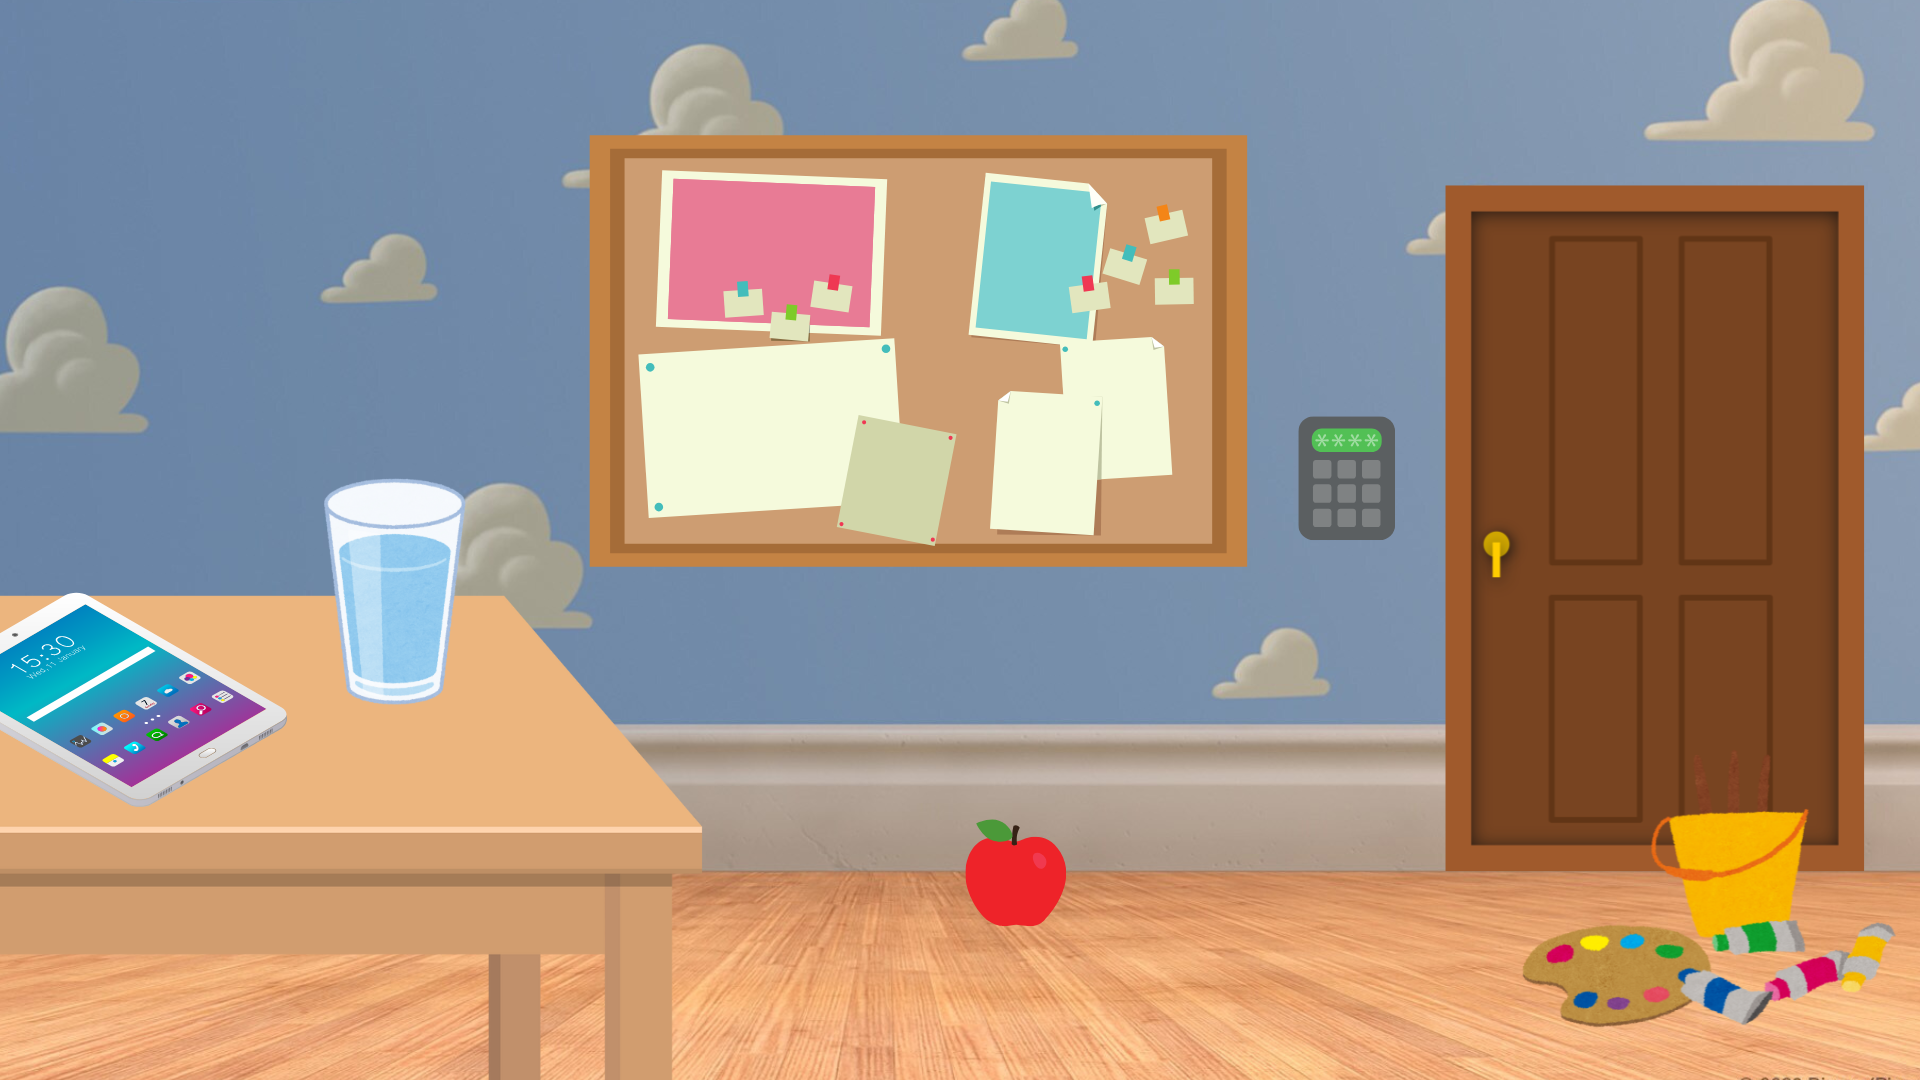
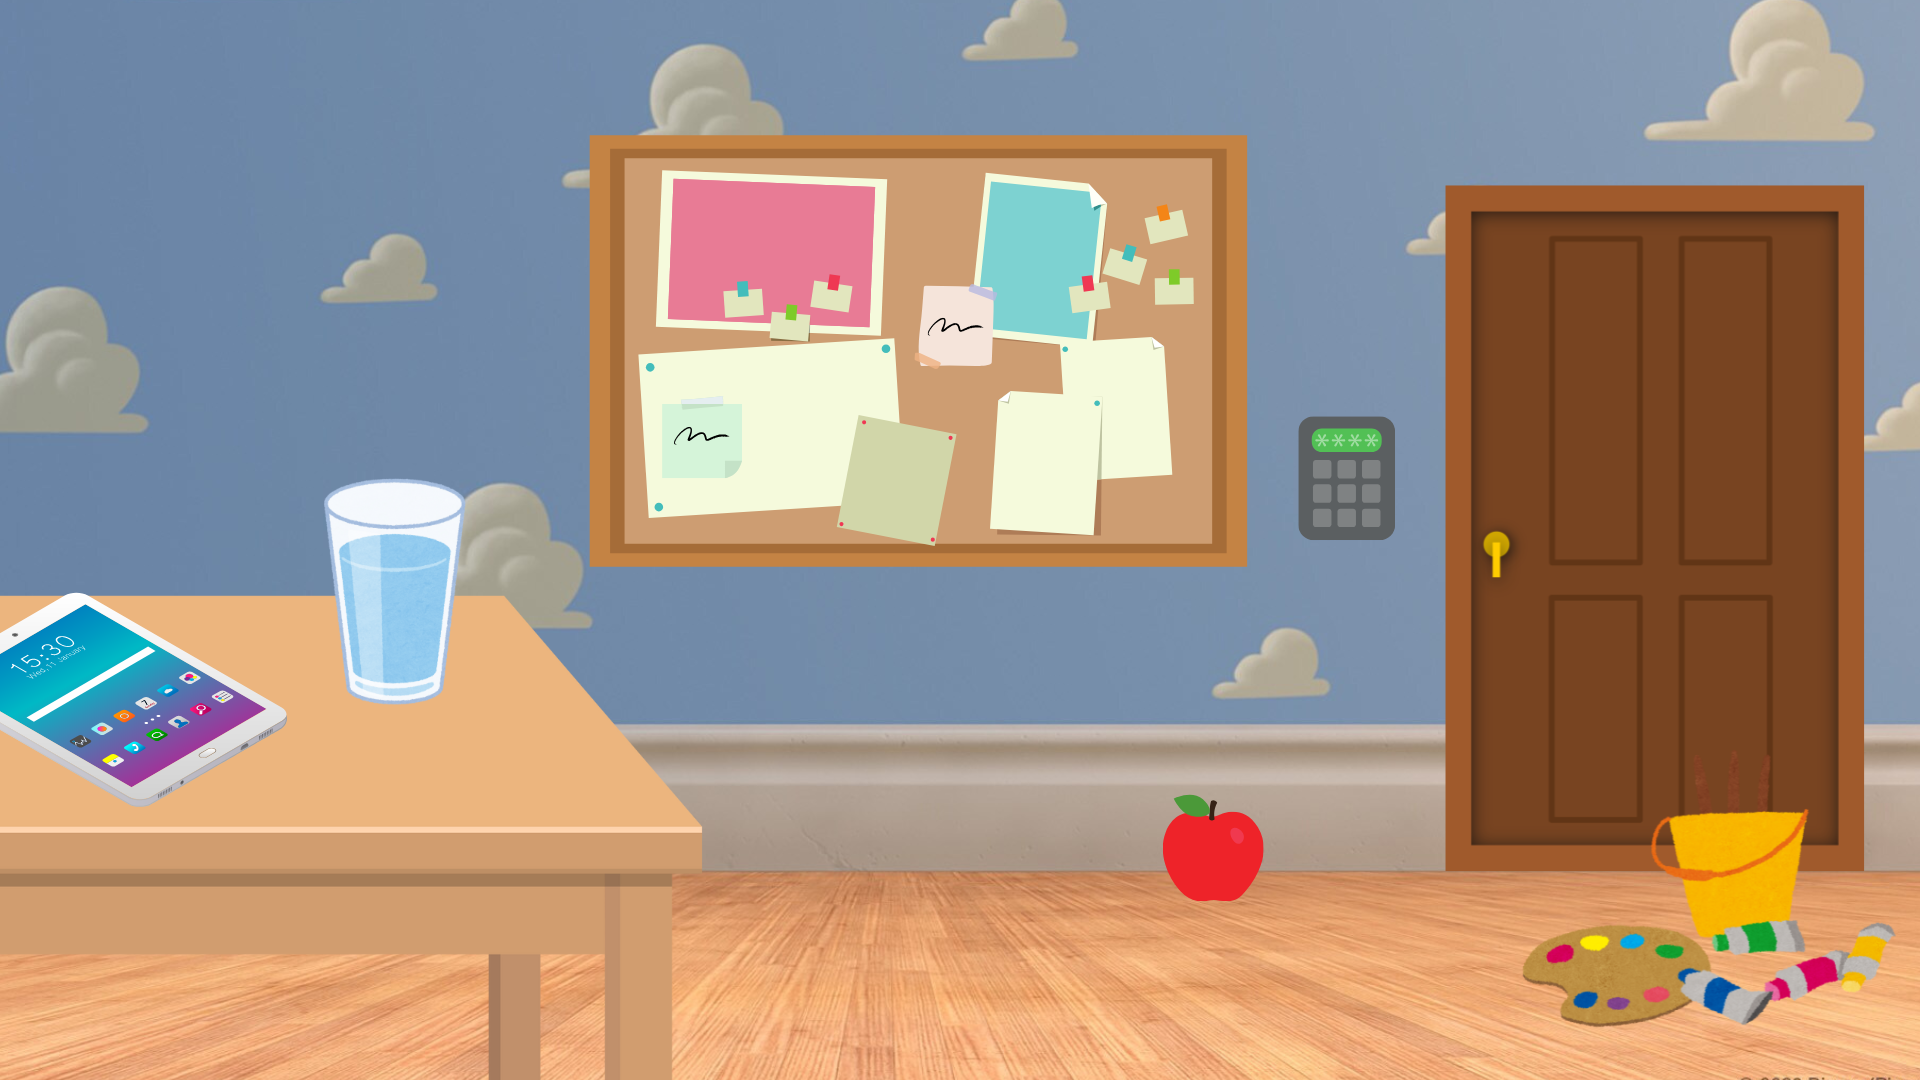
path games

diff --git a/src/app/item/[id]/page.tsx b/src/app/item/[id]/page.tsx
@@ -1,0 +1,114 @@
+'use client'
+import { InteractiveItem, interactiveMap } from '@/data/InteractiveItems';
+import Image from 'next/image';
+import { useRouter } from 'next/navigation';
+import { useCallback, useState, useRef } from 'react';
+
+export default function ItemPage({ params }: { params: { id: string } }) {
+  const router = useRouter();
+  
+  // ค้นหา currentItem จากทุกฉากใน interactiveMap
+  let currentItem: InteractiveItem | undefined;
+  for (const scene in interactiveMap) {
+    const found = interactiveMap[scene].find(item => item.id === params.id);
+    if (found) {
+      currentItem = found;
+      break;
+    }
+  }
+
+  const [zoomStyle, setZoomStyle] = useState({});
+  const [isZooming, setIsZooming] = useState(false);
+  const containerRef = useRef<HTMLDivElement>(null);
+
+  const handleBackgroundClick = useCallback((e: React.MouseEvent<HTMLDivElement>) => {
+    if (!containerRef.current || !interactiveMap[params.id]) return;
+
+    const rect = containerRef.current.getBoundingClientRect();
+    const clickX = ((e.clientX - rect.left) / rect.width) * 100;
+    const clickY = ((e.clientY - rect.top) / rect.height) * 100;
+
+    // ใช้ interactiveMap[params.id] เฉพาะฉากปัจจุบัน
+    const clickedItem = interactiveMap[params.id].find(item => {
+      const { x, y, width, height } = item.clickArea;
+      return (
+        clickX >= x &&
+        clickX <= x + width &&
+        clickY >= y &&
+        clickY <= y + height
+      );
+    });
+
+    if (clickedItem && clickedItem.id !== params.id) {
+      const { x, y, width, height } = clickedItem.clickArea;
+      const centerX = x + width / 2;
+      const centerY = y + height / 2;
+
+      // ซูมก่อน
+      setZoomStyle({
+        transformOrigin: `${centerX}% ${centerY}%`,
+        transform: 'scale(1.5)',
+      });
+      setIsZooming(true);
+
+      // เปลี่ยนหน้าไปไอเทมใหม่หลังซูม
+      setTimeout(() => {
+        router.push(`/item/${clickedItem.id}`);
+      }, 500);
+    }
+  }, [router, params.id]);
+
+  if (!currentItem) {
+    return <div className="text-white text-center mt-10">Item not found</div>;
+  }
+
+  const handleBack = () => {
+    router.back();
+  };
+
+  return (
+    <div className="w-screen h-screen bg-gray-900 overflow-hidden cursor-pointer">
+      <div className="relative w-full h-full">
+        <div
+          ref={containerRef}
+          className="relative w-full h-full select-none transition-transform duration-500"
+          style={zoomStyle}
+          onClick={handleBackgroundClick}
+        >
+          <Image
+            src={currentItem.zoomImage}
+            alt={currentItem.name}
+            fill
+            className="object-cover"
+            sizes="100vw"
+            priority
+          />
+
+          {process.env.NODE_ENV === 'development' && interactiveMap[params.id] && (
+            interactiveMap[params.id].map(item => (
+              <div
+                key={item.id}
+                className="absolute border-2 border-red-500 opacity-50 pointer-events-none"
+                style={{
+                  left: `${item.clickArea.x}%`,
+                  top: `${item.clickArea.y}%`,
+                  width: `${item.clickArea.width}%`,
+                  height: `${item.clickArea.height}%`,
+                }}
+              />
+            ))
+          )}
+        </div>
+
+        <button
+          onClick={handleBack}
+          className="absolute top-3 right-3 bg-red-500 text-white rounded-full w-10 h-10 flex items-center justify-center hover:bg-red-600 transition-colors text-xl font-bold z-10"
+          aria-label="Back"
+        >
+          ×
+        </button>
+
+      </div>
+    </div>
+  );
+}

diff --git a/src/app/games/page.tsx b/src/app/games/page.tsx
@@ -1,0 +1,88 @@
+'use client'
+import { useState, useCallback, useRef } from 'react';
+import Image from 'next/image';
+import { useRouter } from 'next/navigation';
+import { interactiveMap } from '@/data/InteractiveItems';
+
+export default function PuzzleRoom() {
+  const [isZooming, setIsZooming] = useState(false);
+  const [zoomStyle, setZoomStyle] = useState({});
+  const containerRef = useRef<HTMLDivElement>(null);
+  const router = useRouter();
+
+  // ใช้ข้อมูลจาก interactiveMap['room'] เป็นฉากเริ่มต้น
+  const roomItems = interactiveMap['room'];
+
+  const handleBackgroundClick = useCallback((e: React.MouseEvent<HTMLDivElement>) => {
+    if (!containerRef.current) return;
+
+    const rect = containerRef.current.getBoundingClientRect();
+    const clickX = ((e.clientX - rect.left) / rect.width) * 100;
+    const clickY = ((e.clientY - rect.top) / rect.height) * 100;
+
+    const clickedItem = roomItems.find(item => {
+      const { x, y, width, height } = item.clickArea;
+      return (
+        clickX >= x &&
+        clickX <= x + width &&
+        clickY >= y &&
+        clickY <= y + height
+      );
+    });
+
+    if (clickedItem) {
+      const { x, y, width, height } = clickedItem.clickArea;
+      const centerX = x + width / 2;
+      const centerY = y + height / 2;
+
+      // ซูมก่อน
+      setZoomStyle({
+        transformOrigin: `${centerX}% ${centerY}%`,
+        transform: 'scale(1.5)',
+      });
+      setIsZooming(true);
+
+      // หลังจากซูม 500ms ค่อยเปลี่ยนหน้า
+      setTimeout(() => {
+        router.push(`/item/${clickedItem.id}?item=${clickedItem.id}`);
+      }, 500);
+    }
+  }, [router,roomItems]);
+
+  return (
+    <div className="w-screen h-screen bg-gray-900 overflow-hidden cursor-pointer">
+      <div className="relative w-full h-full">
+        <div
+          ref={containerRef}
+          className="relative w-full h-full select-none transition-transform duration-500"
+          style={zoomStyle}
+          onClick={handleBackgroundClick}
+        >
+          <Image
+            src="/images/room.png"
+            alt="ห้องปริศนา"
+            fill
+            className="object-cover"
+            priority
+            sizes="100vw"
+          />
+
+          {process.env.NODE_ENV === 'development' && (
+            roomItems.map(item => (
+              <div
+                key={item.id}
+                className="absolute border-2 border-red-500 opacity-50 pointer-events-none"
+                style={{
+                  left: `${item.clickArea.x}%`,
+                  top: `${item.clickArea.y}%`,
+                  width: `${item.clickArea.width}%`,
+                  height: `${item.clickArea.height}%`,
+                }}
+              />
+            ))
+          )}
+        </div>
+      </div>
+    </div>
+  );
+}

diff --git a/src/data/InteractiveItems.ts b/src/data/InteractiveItems.ts
@@ -1,0 +1,74 @@
+export interface InteractiveItem {
+  id: string;
+  name: string;
+  zoomImage: string;
+  clickArea: {
+    x: number; // % from left
+    y: number; // % from top
+    width: number; // % width
+    height: number; // % height
+  };
+}
+
+export const interactiveMap: Record<string, InteractiveItem[]> = {
+  room: [
+    {
+      id: "note_math",
+      name: "โน้ตคณิตศาสตร์",
+      zoomImage: "/images/note_math.png",
+      clickArea: { x: 33, y: 36, width: 6, height: 8 },
+    },
+    {
+      id: "note_physic",
+      name: "โน้ตฟิสิก",
+      zoomImage: "/images/note_math.png", // อาจจะเปลี่ยนรูปถ้ามีรูปจริงของ note_physic
+      clickArea: { x: 33, y: 36, width: 6, height: 8 },
+    },
+    {
+      id: "apple",
+      name: "แอปเปิ้ล",
+      zoomImage: "/images/zoomapple.png",
+      clickArea: { x: 60, y: 75, width: 6, height: 10 },
+    },
+    {
+      id: "table",
+      name: "โต๊ะ",
+      zoomImage: "/images/on_the_table.png",
+      clickArea: { x: 0, y: 50, width: 30, height: 50 },
+    },
+    {
+      id: "doorlock",
+      name: "ประตูล็อค",
+      zoomImage: "/images/doorlock.png",
+      clickArea: { x: 67.5, y: 38, width: 5, height: 12 },
+    },
+  ],
+  note_math: [
+    {
+      id: "note_math",
+      name: "โน้ตคณิตศาสตร์",
+      zoomImage: "/images/note_math.png",
+      clickArea: { x: 33, y: 36, width: 6, height: 8 },
+    },
+  ],
+  table: [
+    {
+      id: "ipad",
+      name: "ไอแพด",
+      zoomImage: "/images/ipad.png",
+      clickArea: { x: 30, y: 40, width: 40, height: 50 },
+    },
+    {
+      id: "doorlock",
+      name: "ประตูล็อค",
+      zoomImage: "/images/doorlock.png",
+      clickArea: { x: 73, y: 0, width: 20, height: 40 },
+    },
+    {
+      id: "note_ipad",
+      name: "โน้ตไอแพด",
+      zoomImage: "/images/note_ipad.png",
+      clickArea: { x: 25, y: 15, width: 18, height: 20 },
+    }
+  ],
+};
